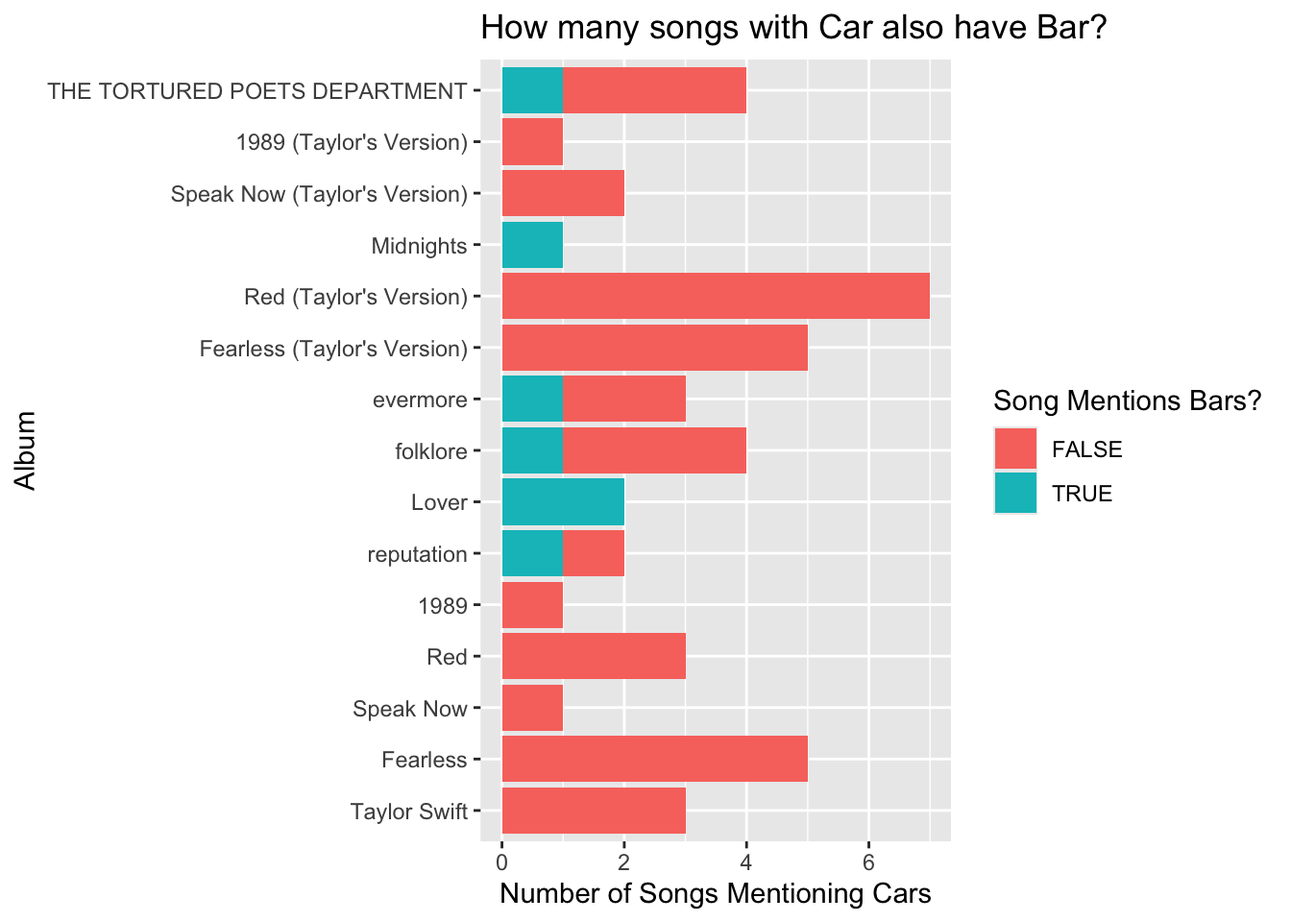
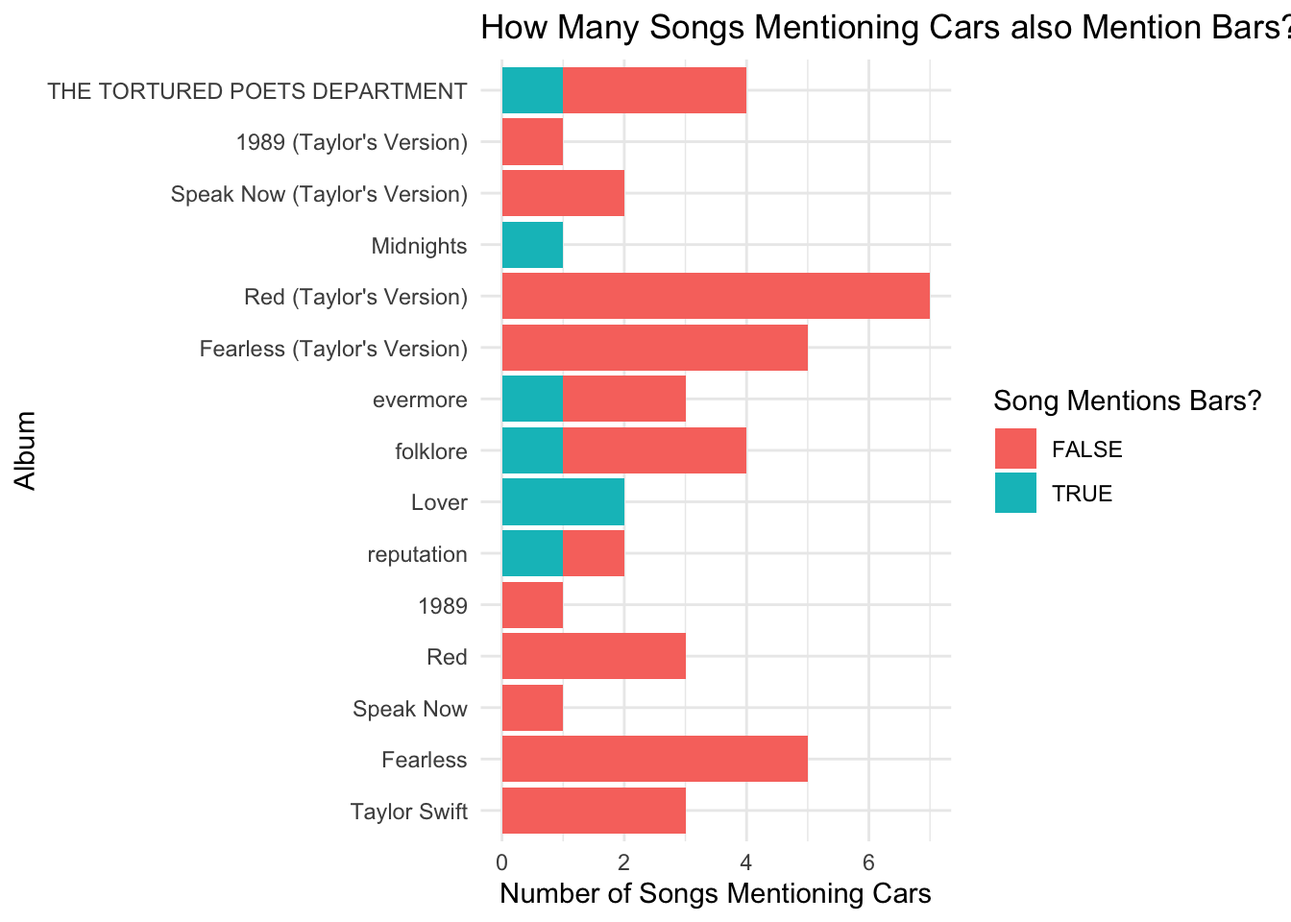
One more car bar plot

Changed region(s): [[0.375, 0.0, 1.0, 0.9375], [0.7812, 0.5, 0.8125, 0.5312], [0.4375, 0.0, 0.4688, 0.0312]]

diff --git a/docs/about.html b/docs/about.html
@@ -216,11 +216,11 @@ pre > code.sourceCode > span > a:first-child::before { text-decoration: underlin
 <div class="code-copy-outer-scaffold"><div class="sourceCode cell-code" id="cb3"><pre class="sourceCode r code-with-copy"><code class="sourceCode r"><span id="cb3-1"><a href="#cb3-1" aria-hidden="true" tabindex="-1"></a><span class="fu">ggplot</span>(<span class="fu">filter</span>(car_bar_data, bar), <span class="fu">aes</span>(<span class="at">x =</span> <span class="fu">fct_relevel</span>(album_name, album_levels), <span class="at">fill =</span> car_bar)) <span class="sc">+</span></span>
 <span id="cb3-2"><a href="#cb3-2" aria-hidden="true" tabindex="-1"></a><span class="fu">geom_bar</span>() <span class="sc">+</span></span>
 <span id="cb3-3"><a href="#cb3-3" aria-hidden="true" tabindex="-1"></a><span class="fu">labs</span>(</span>
-<span id="cb3-4"><a href="#cb3-4" aria-hidden="true" tabindex="-1"></a><span class="at">title =</span> <span class="st">"How many songs with Bar also have Car?"</span>,</span>
+<span id="cb3-4"><a href="#cb3-4" aria-hidden="true" tabindex="-1"></a><span class="at">title =</span> <span class="st">"How Many Songs Mentioning Bars Mention Cars?"</span>,</span>
 <span id="cb3-5"><a href="#cb3-5" aria-hidden="true" tabindex="-1"></a><span class="at">x =</span> <span class="st">"Album"</span>,</span>
 <span id="cb3-6"><a href="#cb3-6" aria-hidden="true" tabindex="-1"></a><span class="at">y =</span> <span class="st">"Number of Songs Mentioning Bars"</span>,</span>
 <span id="cb3-7"><a href="#cb3-7" aria-hidden="true" tabindex="-1"></a><span class="at">fill =</span> <span class="st">"Song Mentions Cars?"</span></span>
-<span id="cb3-8"><a href="#cb3-8" aria-hidden="true" tabindex="-1"></a>)<span class="sc">+</span> <span class="fu">coord_flip</span>()</span></code></pre></div><button title="Copy to Clipboard" class="code-copy-button"><i class="bi"></i></button></div>
+<span id="cb3-8"><a href="#cb3-8" aria-hidden="true" tabindex="-1"></a>)<span class="sc">+</span> <span class="fu">coord_flip</span>() <span class="sc">+</span> <span class="fu">theme_minimal</span>()</span></code></pre></div><button title="Copy to Clipboard" class="code-copy-button"><i class="bi"></i></button></div>
 </details>
 <div class="cell-output-display">
 <div>
@@ -236,11 +236,11 @@ pre > code.sourceCode > span > a:first-child::before { text-decoration: underlin
 <div class="code-copy-outer-scaffold"><div class="sourceCode cell-code" id="cb4"><pre class="sourceCode r code-with-copy"><code class="sourceCode r"><span id="cb4-1"><a href="#cb4-1" aria-hidden="true" tabindex="-1"></a><span class="fu">ggplot</span>(<span class="fu">filter</span>(car_bar_data, car), <span class="fu">aes</span>(<span class="at">x =</span> <span class="fu">fct_relevel</span>(album_name, album_levels), <span class="at">fill =</span> car_bar)) <span class="sc">+</span></span>
 <span id="cb4-2"><a href="#cb4-2" aria-hidden="true" tabindex="-1"></a><span class="fu">geom_bar</span>() <span class="sc">+</span></span>
 <span id="cb4-3"><a href="#cb4-3" aria-hidden="true" tabindex="-1"></a><span class="fu">labs</span>(</span>
-<span id="cb4-4"><a href="#cb4-4" aria-hidden="true" tabindex="-1"></a><span class="at">title =</span> <span class="st">"How many songs with Car also have Bar?"</span>,</span>
+<span id="cb4-4"><a href="#cb4-4" aria-hidden="true" tabindex="-1"></a><span class="at">title =</span> <span class="st">"How Many Songs Mentioning Cars also Mention Bars?"</span>,</span>
 <span id="cb4-5"><a href="#cb4-5" aria-hidden="true" tabindex="-1"></a><span class="at">x =</span> <span class="st">"Album"</span>,</span>
 <span id="cb4-6"><a href="#cb4-6" aria-hidden="true" tabindex="-1"></a><span class="at">y =</span> <span class="st">"Number of Songs Mentioning Cars"</span>,</span>
 <span id="cb4-7"><a href="#cb4-7" aria-hidden="true" tabindex="-1"></a><span class="at">fill =</span> <span class="st">"Song Mentions Bars?"</span></span>
-<span id="cb4-8"><a href="#cb4-8" aria-hidden="true" tabindex="-1"></a>)<span class="sc">+</span> <span class="fu">coord_flip</span>()</span></code></pre></div><button title="Copy to Clipboard" class="code-copy-button"><i class="bi"></i></button></div>
+<span id="cb4-8"><a href="#cb4-8" aria-hidden="true" tabindex="-1"></a>)<span class="sc">+</span> <span class="fu">coord_flip</span>() <span class="sc">+</span> <span class="fu">theme_minimal</span>()</span></code></pre></div><button title="Copy to Clipboard" class="code-copy-button"><i class="bi"></i></button></div>
 </details>
 <div class="cell-output-display">
 <div>
@@ -260,7 +260,7 @@ pre > code.sourceCode > span > a:first-child::before { text-decoration: underlin
 <span id="cb5-5"><a href="#cb5-5" aria-hidden="true" tabindex="-1"></a><span class="at">x =</span> <span class="st">"Album"</span>,</span>
 <span id="cb5-6"><a href="#cb5-6" aria-hidden="true" tabindex="-1"></a><span class="at">y =</span> <span class="st">"Number of Songs"</span>,</span>
 <span id="cb5-7"><a href="#cb5-7" aria-hidden="true" tabindex="-1"></a><span class="at">fill =</span> <span class="st">"Song Mentions Cars or Bars?"</span></span>
-<span id="cb5-8"><a href="#cb5-8" aria-hidden="true" tabindex="-1"></a>)<span class="sc">+</span> <span class="fu">coord_flip</span>()</span></code></pre></div><button title="Copy to Clipboard" class="code-copy-button"><i class="bi"></i></button></div>
+<span id="cb5-8"><a href="#cb5-8" aria-hidden="true" tabindex="-1"></a>)<span class="sc">+</span> <span class="fu">coord_flip</span>() <span class="sc">+</span> <span class="fu">theme_minimal</span>()</span></code></pre></div><button title="Copy to Clipboard" class="code-copy-button"><i class="bi"></i></button></div>
 </details>
 <div class="cell-output-display">
 <div>
@@ -283,7 +283,7 @@ pre > code.sourceCode > span > a:first-child::before { text-decoration: underlin
 <span id="cb6-8"><a href="#cb6-8" aria-hidden="true" tabindex="-1"></a><span class="at">x =</span> <span class="st">"Album"</span>,</span>
 <span id="cb6-9"><a href="#cb6-9" aria-hidden="true" tabindex="-1"></a><span class="at">y =</span> <span class="st">"Number of Songs with 'C/car' or 'C/cars' in the Lyrics"</span>,</span>
 <span id="cb6-10"><a href="#cb6-10" aria-hidden="true" tabindex="-1"></a><span class="at">fill =</span> <span class="st">"Mentions Cars"</span></span>
-<span id="cb6-11"><a href="#cb6-11" aria-hidden="true" tabindex="-1"></a>)<span class="sc">+</span> <span class="fu">coord_flip</span>()</span></code></pre></div><button title="Copy to Clipboard" class="code-copy-button"><i class="bi"></i></button></div>
+<span id="cb6-11"><a href="#cb6-11" aria-hidden="true" tabindex="-1"></a>)<span class="sc">+</span> <span class="fu">coord_flip</span>() <span class="sc">+</span> <span class="fu">theme_minimal</span>()</span></code></pre></div><button title="Copy to Clipboard" class="code-copy-button"><i class="bi"></i></button></div>
 </details>
 <div class="cell-output-display">
 <div>
@@ -296,22 +296,14 @@ pre > code.sourceCode > span > a:first-child::before { text-decoration: underlin
 <div class="cell">
 <details class="code-fold">
 <summary>R Code</summary>
-<div class="code-copy-outer-scaffold"><div class="sourceCode cell-code" id="cb7"><pre class="sourceCode r code-with-copy"><code class="sourceCode r"><span id="cb7-1"><a href="#cb7-1" aria-hidden="true" tabindex="-1"></a>how_many_cars_and_bars_data <span class="ot">&lt;-</span> taylor_album_songs <span class="sc">|&gt;</span></span>
-<span id="cb7-2"><a href="#cb7-2" aria-hidden="true" tabindex="-1"></a>  <span class="fu">mutate</span>(<span class="at">how_many_car =</span> <span class="fu">str_count</span>(lyrics, <span class="st">"</span><span class="sc">\\</span><span class="st">b[Cc]ars?</span><span class="sc">\\</span><span class="st">b"</span>)) <span class="sc">|&gt;</span></span>
-<span id="cb7-3"><a href="#cb7-3" aria-hidden="true" tabindex="-1"></a>  <span class="fu">mutate</span>(<span class="at">how_many_bar =</span> <span class="fu">str_count</span>(lyrics, <span class="st">"</span><span class="sc">\\</span><span class="st">b[Bb]ars?</span><span class="sc">\\</span><span class="st">b"</span>)) <span class="sc">|&gt;</span></span>
-<span id="cb7-4"><a href="#cb7-4" aria-hidden="true" tabindex="-1"></a>  <span class="fu">filter</span>(how_many_car <span class="sc">&gt;</span> <span class="dv">0</span> <span class="sc">|</span> how_many_bar <span class="sc">&gt;</span> <span class="dv">0</span>)</span>
-<span id="cb7-5"><a href="#cb7-5" aria-hidden="true" tabindex="-1"></a></span>
-<span id="cb7-6"><a href="#cb7-6" aria-hidden="true" tabindex="-1"></a><span class="co">#I took code from https://stackoverflow.com/a/58309991</span></span>
-<span id="cb7-7"><a href="#cb7-7" aria-hidden="true" tabindex="-1"></a><span class="co"># Posted by Slouei</span></span>
-<span id="cb7-8"><a href="#cb7-8" aria-hidden="true" tabindex="-1"></a><span class="co"># Retrieved 2026-10-14, License - CC BY-SA 4.0</span></span>
-<span id="cb7-9"><a href="#cb7-9" aria-hidden="true" tabindex="-1"></a><span class="co"># To figure out how to make the legend</span></span>
-<span id="cb7-10"><a href="#cb7-10" aria-hidden="true" tabindex="-1"></a></span>
-<span id="cb7-11"><a href="#cb7-11" aria-hidden="true" tabindex="-1"></a><span class="fu">ggplot</span>(how_many_cars_and_bars_data) <span class="sc">+</span></span>
-<span id="cb7-12"><a href="#cb7-12" aria-hidden="true" tabindex="-1"></a>  <span class="fu">geom_point</span>(<span class="fu">aes</span>(<span class="at">x =</span> album_release, <span class="at">y =</span> how_many_car, <span class="at">color =</span> <span class="st">"Car"</span>), <span class="at">position =</span> <span class="fu">position_jitter</span>()) <span class="sc">+</span> <span class="fu">geom_point</span>(<span class="fu">aes</span>(<span class="at">x =</span> album_release, <span class="at">y =</span> how_many_bar, <span class="at">color =</span> <span class="st">"Bar"</span> ), <span class="at">position =</span> <span class="fu">position_jitter</span>())  <span class="sc">+</span></span>
-<span id="cb7-13"><a href="#cb7-13" aria-hidden="true" tabindex="-1"></a><span class="fu">labs</span>(</span>
-<span id="cb7-14"><a href="#cb7-14" aria-hidden="true" tabindex="-1"></a><span class="at">title =</span> <span class="st">"How Many Times Did Songs Mentioning Cars and Bars Mention Cars and Bars?"</span>,</span>
-<span id="cb7-15"><a href="#cb7-15" aria-hidden="true" tabindex="-1"></a><span class="at">x =</span> <span class="st">"Song Release Date"</span>,</span>
-<span id="cb7-16"><a href="#cb7-16" aria-hidden="true" tabindex="-1"></a><span class="at">y =</span> <span class="st">"Number of Car or Bar Mentions in Song"</span>) </span></code></pre></div><button title="Copy to Clipboard" class="code-copy-button"><i class="bi"></i></button></div>
+<div class="code-copy-outer-scaffold"><div class="sourceCode cell-code" id="cb7"><pre class="sourceCode r code-with-copy"><code class="sourceCode r"><span id="cb7-1"><a href="#cb7-1" aria-hidden="true" tabindex="-1"></a>longer_car_bar_data <span class="ot">&lt;-</span> car_bar_data <span class="sc">|&gt;</span></span>
+<span id="cb7-2"><a href="#cb7-2" aria-hidden="true" tabindex="-1"></a>  <span class="fu">pivot_longer</span>(<span class="at">cols =</span> <span class="fu">c</span>(danceability, loudness, acousticness, instrumentalness, valence),  <span class="at">names_to =</span> <span class="st">"what_var"</span> , <span class="at">values_to =</span> <span class="st">"what_val"</span>)</span>
+<span id="cb7-3"><a href="#cb7-3" aria-hidden="true" tabindex="-1"></a></span>
+<span id="cb7-4"><a href="#cb7-4" aria-hidden="true" tabindex="-1"></a>longer_car_bar_data <span class="sc">|&gt;</span></span>
+<span id="cb7-5"><a href="#cb7-5" aria-hidden="true" tabindex="-1"></a><span class="fu">ggplot</span>(<span class="fu">aes</span>(<span class="at">x =</span> what_var, <span class="at">y =</span> what_val, <span class="at">color =</span> car_bar)) <span class="sc">+</span></span>
+<span id="cb7-6"><a href="#cb7-6" aria-hidden="true" tabindex="-1"></a>  <span class="fu">geom_boxplot</span>() <span class="sc">+</span> <span class="fu">theme_minimal</span>() <span class="sc">+</span></span>
+<span id="cb7-7"><a href="#cb7-7" aria-hidden="true" tabindex="-1"></a>  <span class="fu">labs</span>(<span class="at">title =</span> <span class="st">"Scores of Songs Rhyming Car with Bar Vs Without"</span>, </span>
+<span id="cb7-8"><a href="#cb7-8" aria-hidden="true" tabindex="-1"></a>  <span class="at">x =</span> <span class="st">"Type of Score"</span>, <span class="at">y =</span> <span class="st">"Score (0-1)"</span>, <span class="at">color =</span> <span class="st">"Song Rhymes Car with Bar"</span>) <span class="sc">+</span> <span class="fu">coord_flip</span>()</span></code></pre></div><button title="Copy to Clipboard" class="code-copy-button"><i class="bi"></i></button></div>
 </details>
 <div class="cell-output-display">
 <div>
@@ -324,37 +316,64 @@ pre > code.sourceCode > span > a:first-child::before { text-decoration: underlin
 <div class="cell">
 <details class="code-fold">
 <summary>R Code</summary>
-<div class="code-copy-outer-scaffold"><div class="sourceCode cell-code" id="cb8"><pre class="sourceCode r code-with-copy"><code class="sourceCode r"><span id="cb8-1"><a href="#cb8-1" aria-hidden="true" tabindex="-1"></a><span class="co">#I had to look up the "unlist()" to make the list of lists into a list with objects</span></span>
-<span id="cb8-2"><a href="#cb8-2" aria-hidden="true" tabindex="-1"></a><span class="co"># Source - https://www.r-bloggers.com/2023/08/the-unlist-function-in-r/</span></span>
-<span id="cb8-3"><a href="#cb8-3" aria-hidden="true" tabindex="-1"></a>all_ars_bad <span class="ot">&lt;-</span> <span class="fu">as.character</span>(taylor_album_songs<span class="sc">$</span>lyrics) <span class="sc">|&gt;</span> <span class="fu">str_extract_all</span>(<span class="st">"</span><span class="sc">\\</span><span class="st">b</span><span class="sc">\\</span><span class="st">w+(?&lt;!e)ars?</span><span class="sc">\\</span><span class="st">b"</span>)</span>
-<span id="cb8-4"><a href="#cb8-4" aria-hidden="true" tabindex="-1"></a></span>
-<span id="cb8-5"><a href="#cb8-5" aria-hidden="true" tabindex="-1"></a>all_ars <span class="ot">&lt;-</span> all_ars_bad <span class="sc">|&gt;</span> <span class="fu">unlist</span>()</span>
-<span id="cb8-6"><a href="#cb8-6" aria-hidden="true" tabindex="-1"></a></span>
-<span id="cb8-7"><a href="#cb8-7" aria-hidden="true" tabindex="-1"></a><span class="co"># I also had to look up a function that would make the list into a data frame</span></span>
-<span id="cb8-8"><a href="#cb8-8" aria-hidden="true" tabindex="-1"></a><span class="co">#source - https://www.geeksforgeeks.org/r-language/how-to-convert-a-list-to-a-dataframe-in-r/</span></span>
-<span id="cb8-9"><a href="#cb8-9" aria-hidden="true" tabindex="-1"></a></span>
-<span id="cb8-10"><a href="#cb8-10" aria-hidden="true" tabindex="-1"></a>all_ars_data <span class="ot">&lt;-</span> <span class="fu">as.data.frame</span>(<span class="fu">list</span>(<span class="at">raw_words =</span> all_ars)) <span class="sc">|&gt;</span></span>
-<span id="cb8-11"><a href="#cb8-11" aria-hidden="true" tabindex="-1"></a>  <span class="fu">mutate</span>(<span class="at">lowercase_ars =</span> <span class="fu">str_to_lower</span>(raw_words)) <span class="sc">|&gt;</span></span>
-<span id="cb8-12"><a href="#cb8-12" aria-hidden="true" tabindex="-1"></a>  <span class="fu">mutate</span>(<span class="at">all_singular_ars =</span> <span class="fu">ifelse</span>(<span class="fu">str_detect</span>(lowercase_ars, <span class="st">"s</span><span class="sc">\\</span><span class="st">b"</span>),<span class="fu">str_sub</span>(lowercase_ars, <span class="dv">1</span>, <span class="fu">str_length</span>(lowercase_ars)<span class="sc">-</span><span class="dv">1</span>), lowercase_ars)) <span class="sc">|&gt;</span></span>
-<span id="cb8-13"><a href="#cb8-13" aria-hidden="true" tabindex="-1"></a>  <span class="fu">group_by</span>(all_singular_ars)<span class="sc">|&gt;</span></span>
-<span id="cb8-14"><a href="#cb8-14" aria-hidden="true" tabindex="-1"></a>  <span class="fu">summarize</span>(<span class="at">ar_counts =</span> <span class="fu">n</span>())</span>
-<span id="cb8-15"><a href="#cb8-15" aria-hidden="true" tabindex="-1"></a></span>
-<span id="cb8-16"><a href="#cb8-16" aria-hidden="true" tabindex="-1"></a></span>
-<span id="cb8-17"><a href="#cb8-17" aria-hidden="true" tabindex="-1"></a></span>
-<span id="cb8-18"><a href="#cb8-18" aria-hidden="true" tabindex="-1"></a></span>
-<span id="cb8-19"><a href="#cb8-19" aria-hidden="true" tabindex="-1"></a><span class="fu">ggplot</span>(all_ars_data, <span class="fu">aes</span>(<span class="at">x =</span> <span class="fu">fct_reorder</span>(all_singular_ars, ar_counts), <span class="at">y =</span> ar_counts)) <span class="sc">+</span></span>
-<span id="cb8-20"><a href="#cb8-20" aria-hidden="true" tabindex="-1"></a><span class="fu">geom_col</span>(<span class="at">fill =</span> <span class="st">"#2aaaa2"</span>) <span class="sc">+</span></span>
-<span id="cb8-21"><a href="#cb8-21" aria-hidden="true" tabindex="-1"></a><span class="fu">labs</span>(</span>
-<span id="cb8-22"><a href="#cb8-22" aria-hidden="true" tabindex="-1"></a><span class="at">title =</span> <span class="st">"Number of Times Words Rhyming with Car are Mentioned"</span>,</span>
-<span id="cb8-23"><a href="#cb8-23" aria-hidden="true" tabindex="-1"></a><span class="at">x =</span> <span class="st">"Lyric"</span>,</span>
-<span id="cb8-24"><a href="#cb8-24" aria-hidden="true" tabindex="-1"></a><span class="at">y =</span> <span class="st">"Number of Mentions"</span>,</span>
-<span id="cb8-25"><a href="#cb8-25" aria-hidden="true" tabindex="-1"></a><span class="at">fill =</span> <span class="st">"Song Mentions Cars?"</span></span>
-<span id="cb8-26"><a href="#cb8-26" aria-hidden="true" tabindex="-1"></a>)<span class="sc">+</span> <span class="fu">coord_flip</span>()</span></code></pre></div><button title="Copy to Clipboard" class="code-copy-button"><i class="bi"></i></button></div>
+<div class="code-copy-outer-scaffold"><div class="sourceCode cell-code" id="cb8"><pre class="sourceCode r code-with-copy"><code class="sourceCode r"><span id="cb8-1"><a href="#cb8-1" aria-hidden="true" tabindex="-1"></a>how_many_cars_and_bars_data <span class="ot">&lt;-</span> taylor_album_songs <span class="sc">|&gt;</span></span>
+<span id="cb8-2"><a href="#cb8-2" aria-hidden="true" tabindex="-1"></a>  <span class="fu">mutate</span>(<span class="at">how_many_car =</span> <span class="fu">str_count</span>(lyrics, <span class="st">"</span><span class="sc">\\</span><span class="st">b[Cc]ars?</span><span class="sc">\\</span><span class="st">b"</span>)) <span class="sc">|&gt;</span></span>
+<span id="cb8-3"><a href="#cb8-3" aria-hidden="true" tabindex="-1"></a>  <span class="fu">mutate</span>(<span class="at">how_many_bar =</span> <span class="fu">str_count</span>(lyrics, <span class="st">"</span><span class="sc">\\</span><span class="st">b[Bb]ars?</span><span class="sc">\\</span><span class="st">b"</span>)) <span class="sc">|&gt;</span></span>
+<span id="cb8-4"><a href="#cb8-4" aria-hidden="true" tabindex="-1"></a>  <span class="fu">filter</span>(how_many_car <span class="sc">&gt;</span> <span class="dv">0</span> <span class="sc">|</span> how_many_bar <span class="sc">&gt;</span> <span class="dv">0</span>)</span>
+<span id="cb8-5"><a href="#cb8-5" aria-hidden="true" tabindex="-1"></a></span>
+<span id="cb8-6"><a href="#cb8-6" aria-hidden="true" tabindex="-1"></a><span class="co">#I took code from https://stackoverflow.com/a/58309991</span></span>
+<span id="cb8-7"><a href="#cb8-7" aria-hidden="true" tabindex="-1"></a><span class="co"># Posted by Slouei</span></span>
+<span id="cb8-8"><a href="#cb8-8" aria-hidden="true" tabindex="-1"></a><span class="co"># Retrieved 2026-10-14, License - CC BY-SA 4.0</span></span>
+<span id="cb8-9"><a href="#cb8-9" aria-hidden="true" tabindex="-1"></a><span class="co"># To figure out how to make the legend</span></span>
+<span id="cb8-10"><a href="#cb8-10" aria-hidden="true" tabindex="-1"></a></span>
+<span id="cb8-11"><a href="#cb8-11" aria-hidden="true" tabindex="-1"></a><span class="fu">ggplot</span>(how_many_cars_and_bars_data) <span class="sc">+</span></span>
+<span id="cb8-12"><a href="#cb8-12" aria-hidden="true" tabindex="-1"></a>  <span class="fu">geom_point</span>(<span class="fu">aes</span>(<span class="at">x =</span> album_release, <span class="at">y =</span> how_many_car, <span class="at">color =</span> <span class="st">"Car"</span>), <span class="at">position =</span> <span class="fu">position_jitter</span>()) <span class="sc">+</span> <span class="fu">geom_point</span>(<span class="fu">aes</span>(<span class="at">x =</span> album_release, <span class="at">y =</span> how_many_bar, <span class="at">color =</span> <span class="st">"Bar"</span> ), <span class="at">position =</span> <span class="fu">position_jitter</span>())  <span class="sc">+</span></span>
+<span id="cb8-13"><a href="#cb8-13" aria-hidden="true" tabindex="-1"></a><span class="fu">labs</span>(</span>
+<span id="cb8-14"><a href="#cb8-14" aria-hidden="true" tabindex="-1"></a><span class="at">title =</span> <span class="st">"How Many Times Did Songs Mentioning Cars and Bars Mention Cars and Bars?"</span>,</span>
+<span id="cb8-15"><a href="#cb8-15" aria-hidden="true" tabindex="-1"></a><span class="at">x =</span> <span class="st">"Song Release Date"</span>,</span>
+<span id="cb8-16"><a href="#cb8-16" aria-hidden="true" tabindex="-1"></a><span class="at">y =</span> <span class="st">"Number of Car or Bar Mentions in Song"</span>) </span></code></pre></div><button title="Copy to Clipboard" class="code-copy-button"><i class="bi"></i></button></div>
 </details>
 <div class="cell-output-display">
 <div>
 <figure class="figure">
 <p><img src="about_files/figure-html/unnamed-chunk-8-1.png" class="img-fluid figure-img" width="672"></p>
+</figure>
+</div>
+</div>
+</div>
+<div class="cell">
+<details class="code-fold">
+<summary>R Code</summary>
+<div class="code-copy-outer-scaffold"><div class="sourceCode cell-code" id="cb9"><pre class="sourceCode r code-with-copy"><code class="sourceCode r"><span id="cb9-1"><a href="#cb9-1" aria-hidden="true" tabindex="-1"></a><span class="co">#I had to look up the "unlist()" to make the list of lists into a list with objects</span></span>
+<span id="cb9-2"><a href="#cb9-2" aria-hidden="true" tabindex="-1"></a><span class="co"># Source - https://www.r-bloggers.com/2023/08/the-unlist-function-in-r/</span></span>
+<span id="cb9-3"><a href="#cb9-3" aria-hidden="true" tabindex="-1"></a>all_ars_bad <span class="ot">&lt;-</span> <span class="fu">as.character</span>(taylor_album_songs<span class="sc">$</span>lyrics) <span class="sc">|&gt;</span> <span class="fu">str_extract_all</span>(<span class="st">"</span><span class="sc">\\</span><span class="st">b</span><span class="sc">\\</span><span class="st">w+(?&lt;!e)ars?</span><span class="sc">\\</span><span class="st">b"</span>)</span>
+<span id="cb9-4"><a href="#cb9-4" aria-hidden="true" tabindex="-1"></a></span>
+<span id="cb9-5"><a href="#cb9-5" aria-hidden="true" tabindex="-1"></a>all_ars <span class="ot">&lt;-</span> all_ars_bad <span class="sc">|&gt;</span> <span class="fu">unlist</span>()</span>
+<span id="cb9-6"><a href="#cb9-6" aria-hidden="true" tabindex="-1"></a></span>
+<span id="cb9-7"><a href="#cb9-7" aria-hidden="true" tabindex="-1"></a><span class="co"># I also had to look up a function that would make the list into a data frame</span></span>
+<span id="cb9-8"><a href="#cb9-8" aria-hidden="true" tabindex="-1"></a><span class="co">#source - https://www.geeksforgeeks.org/r-language/how-to-convert-a-list-to-a-dataframe-in-r/</span></span>
+<span id="cb9-9"><a href="#cb9-9" aria-hidden="true" tabindex="-1"></a></span>
+<span id="cb9-10"><a href="#cb9-10" aria-hidden="true" tabindex="-1"></a>all_ars_data <span class="ot">&lt;-</span> <span class="fu">as.data.frame</span>(<span class="fu">list</span>(<span class="at">raw_words =</span> all_ars)) <span class="sc">|&gt;</span></span>
+<span id="cb9-11"><a href="#cb9-11" aria-hidden="true" tabindex="-1"></a>  <span class="fu">mutate</span>(<span class="at">lowercase_ars =</span> <span class="fu">str_to_lower</span>(raw_words)) <span class="sc">|&gt;</span></span>
+<span id="cb9-12"><a href="#cb9-12" aria-hidden="true" tabindex="-1"></a>  <span class="fu">mutate</span>(<span class="at">all_singular_ars =</span> <span class="fu">ifelse</span>(<span class="fu">str_detect</span>(lowercase_ars, <span class="st">"s</span><span class="sc">\\</span><span class="st">b"</span>),<span class="fu">str_sub</span>(lowercase_ars, <span class="dv">1</span>, <span class="fu">str_length</span>(lowercase_ars)<span class="sc">-</span><span class="dv">1</span>), lowercase_ars)) <span class="sc">|&gt;</span></span>
+<span id="cb9-13"><a href="#cb9-13" aria-hidden="true" tabindex="-1"></a>  <span class="fu">group_by</span>(all_singular_ars)<span class="sc">|&gt;</span></span>
+<span id="cb9-14"><a href="#cb9-14" aria-hidden="true" tabindex="-1"></a>  <span class="fu">summarize</span>(<span class="at">ar_counts =</span> <span class="fu">n</span>())</span>
+<span id="cb9-15"><a href="#cb9-15" aria-hidden="true" tabindex="-1"></a></span>
+<span id="cb9-16"><a href="#cb9-16" aria-hidden="true" tabindex="-1"></a></span>
+<span id="cb9-17"><a href="#cb9-17" aria-hidden="true" tabindex="-1"></a></span>
+<span id="cb9-18"><a href="#cb9-18" aria-hidden="true" tabindex="-1"></a></span>
+<span id="cb9-19"><a href="#cb9-19" aria-hidden="true" tabindex="-1"></a><span class="fu">ggplot</span>(all_ars_data, <span class="fu">aes</span>(<span class="at">x =</span> <span class="fu">fct_reorder</span>(all_singular_ars, ar_counts), <span class="at">y =</span> ar_counts)) <span class="sc">+</span></span>
+<span id="cb9-20"><a href="#cb9-20" aria-hidden="true" tabindex="-1"></a><span class="fu">geom_col</span>(<span class="at">fill =</span> <span class="st">"#2aaaa2"</span>) <span class="sc">+</span></span>
+<span id="cb9-21"><a href="#cb9-21" aria-hidden="true" tabindex="-1"></a><span class="fu">labs</span>(</span>
+<span id="cb9-22"><a href="#cb9-22" aria-hidden="true" tabindex="-1"></a><span class="at">title =</span> <span class="st">"Number of Times Words Rhyming with Car are Mentioned"</span>,</span>
+<span id="cb9-23"><a href="#cb9-23" aria-hidden="true" tabindex="-1"></a><span class="at">x =</span> <span class="st">"Lyric"</span>,</span>
+<span id="cb9-24"><a href="#cb9-24" aria-hidden="true" tabindex="-1"></a><span class="at">y =</span> <span class="st">"Number of Mentions"</span></span>
+<span id="cb9-25"><a href="#cb9-25" aria-hidden="true" tabindex="-1"></a>) <span class="sc">+</span> <span class="fu">coord_flip</span>()</span></code></pre></div><button title="Copy to Clipboard" class="code-copy-button"><i class="bi"></i></button></div>
+</details>
+<div class="cell-output-display">
+<div>
+<figure class="figure">
+<p><img src="about_files/figure-html/unnamed-chunk-9-1.png" class="img-fluid figure-img" width="672"></p>
 </figure>
 </div>
 </div>
